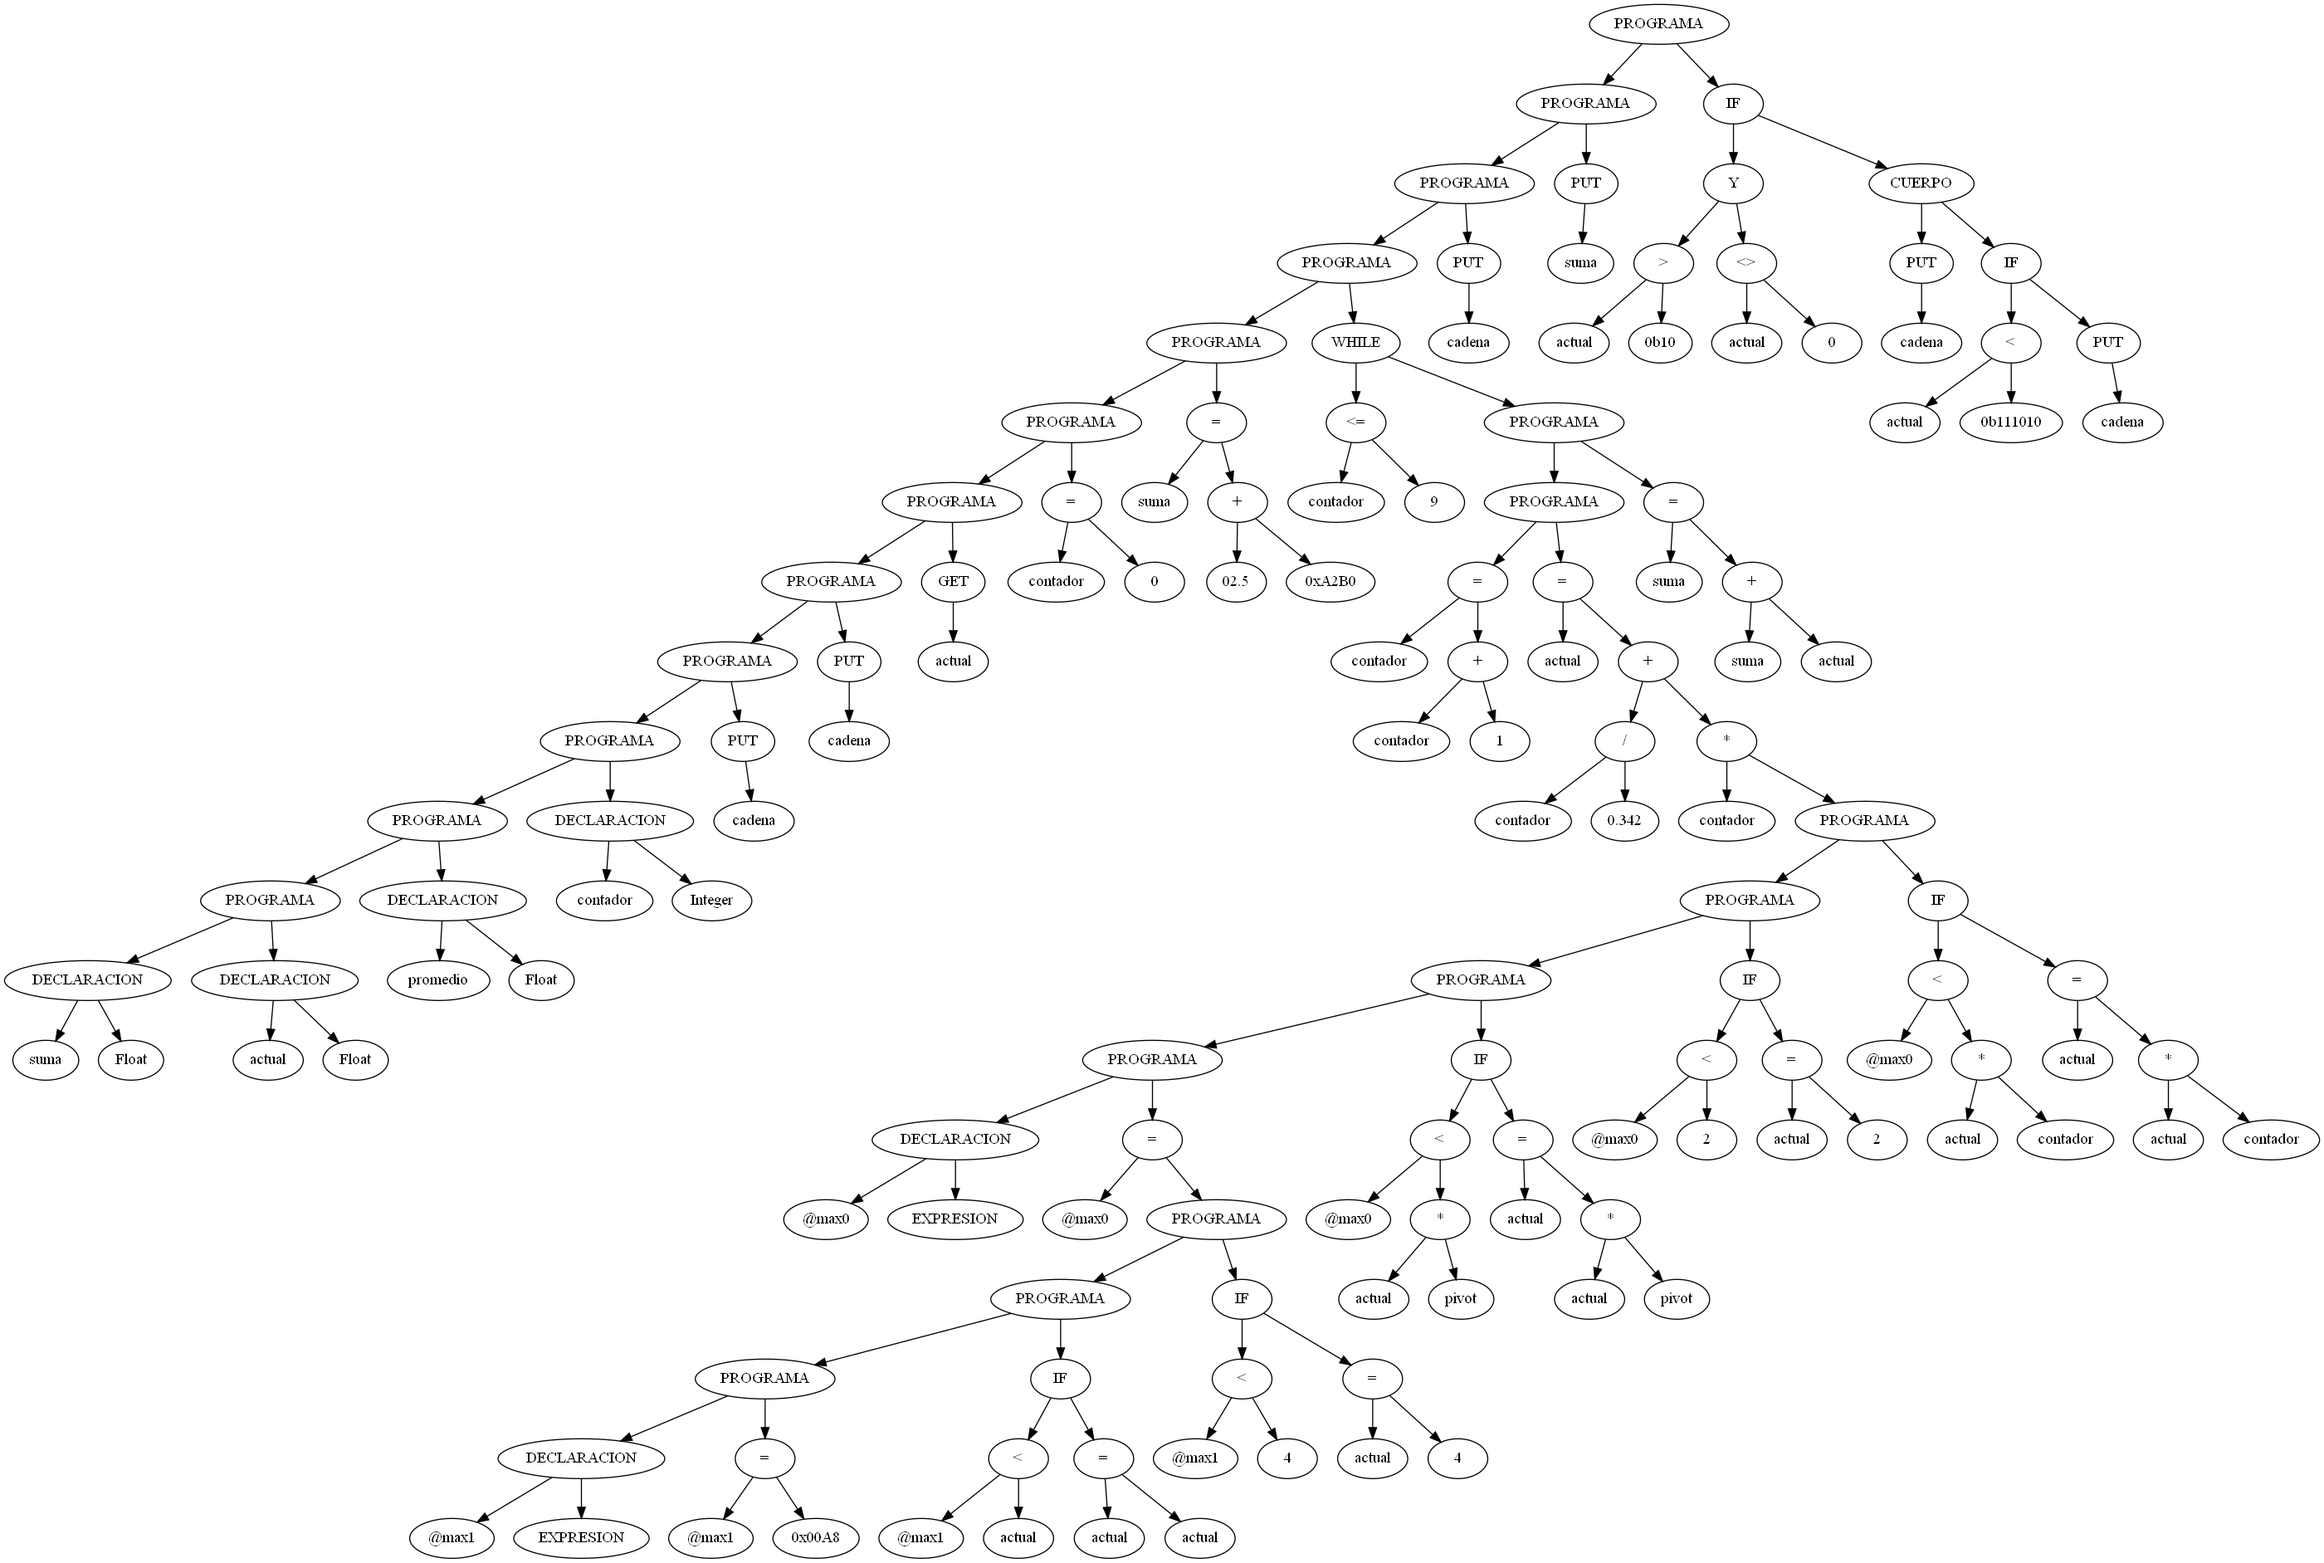
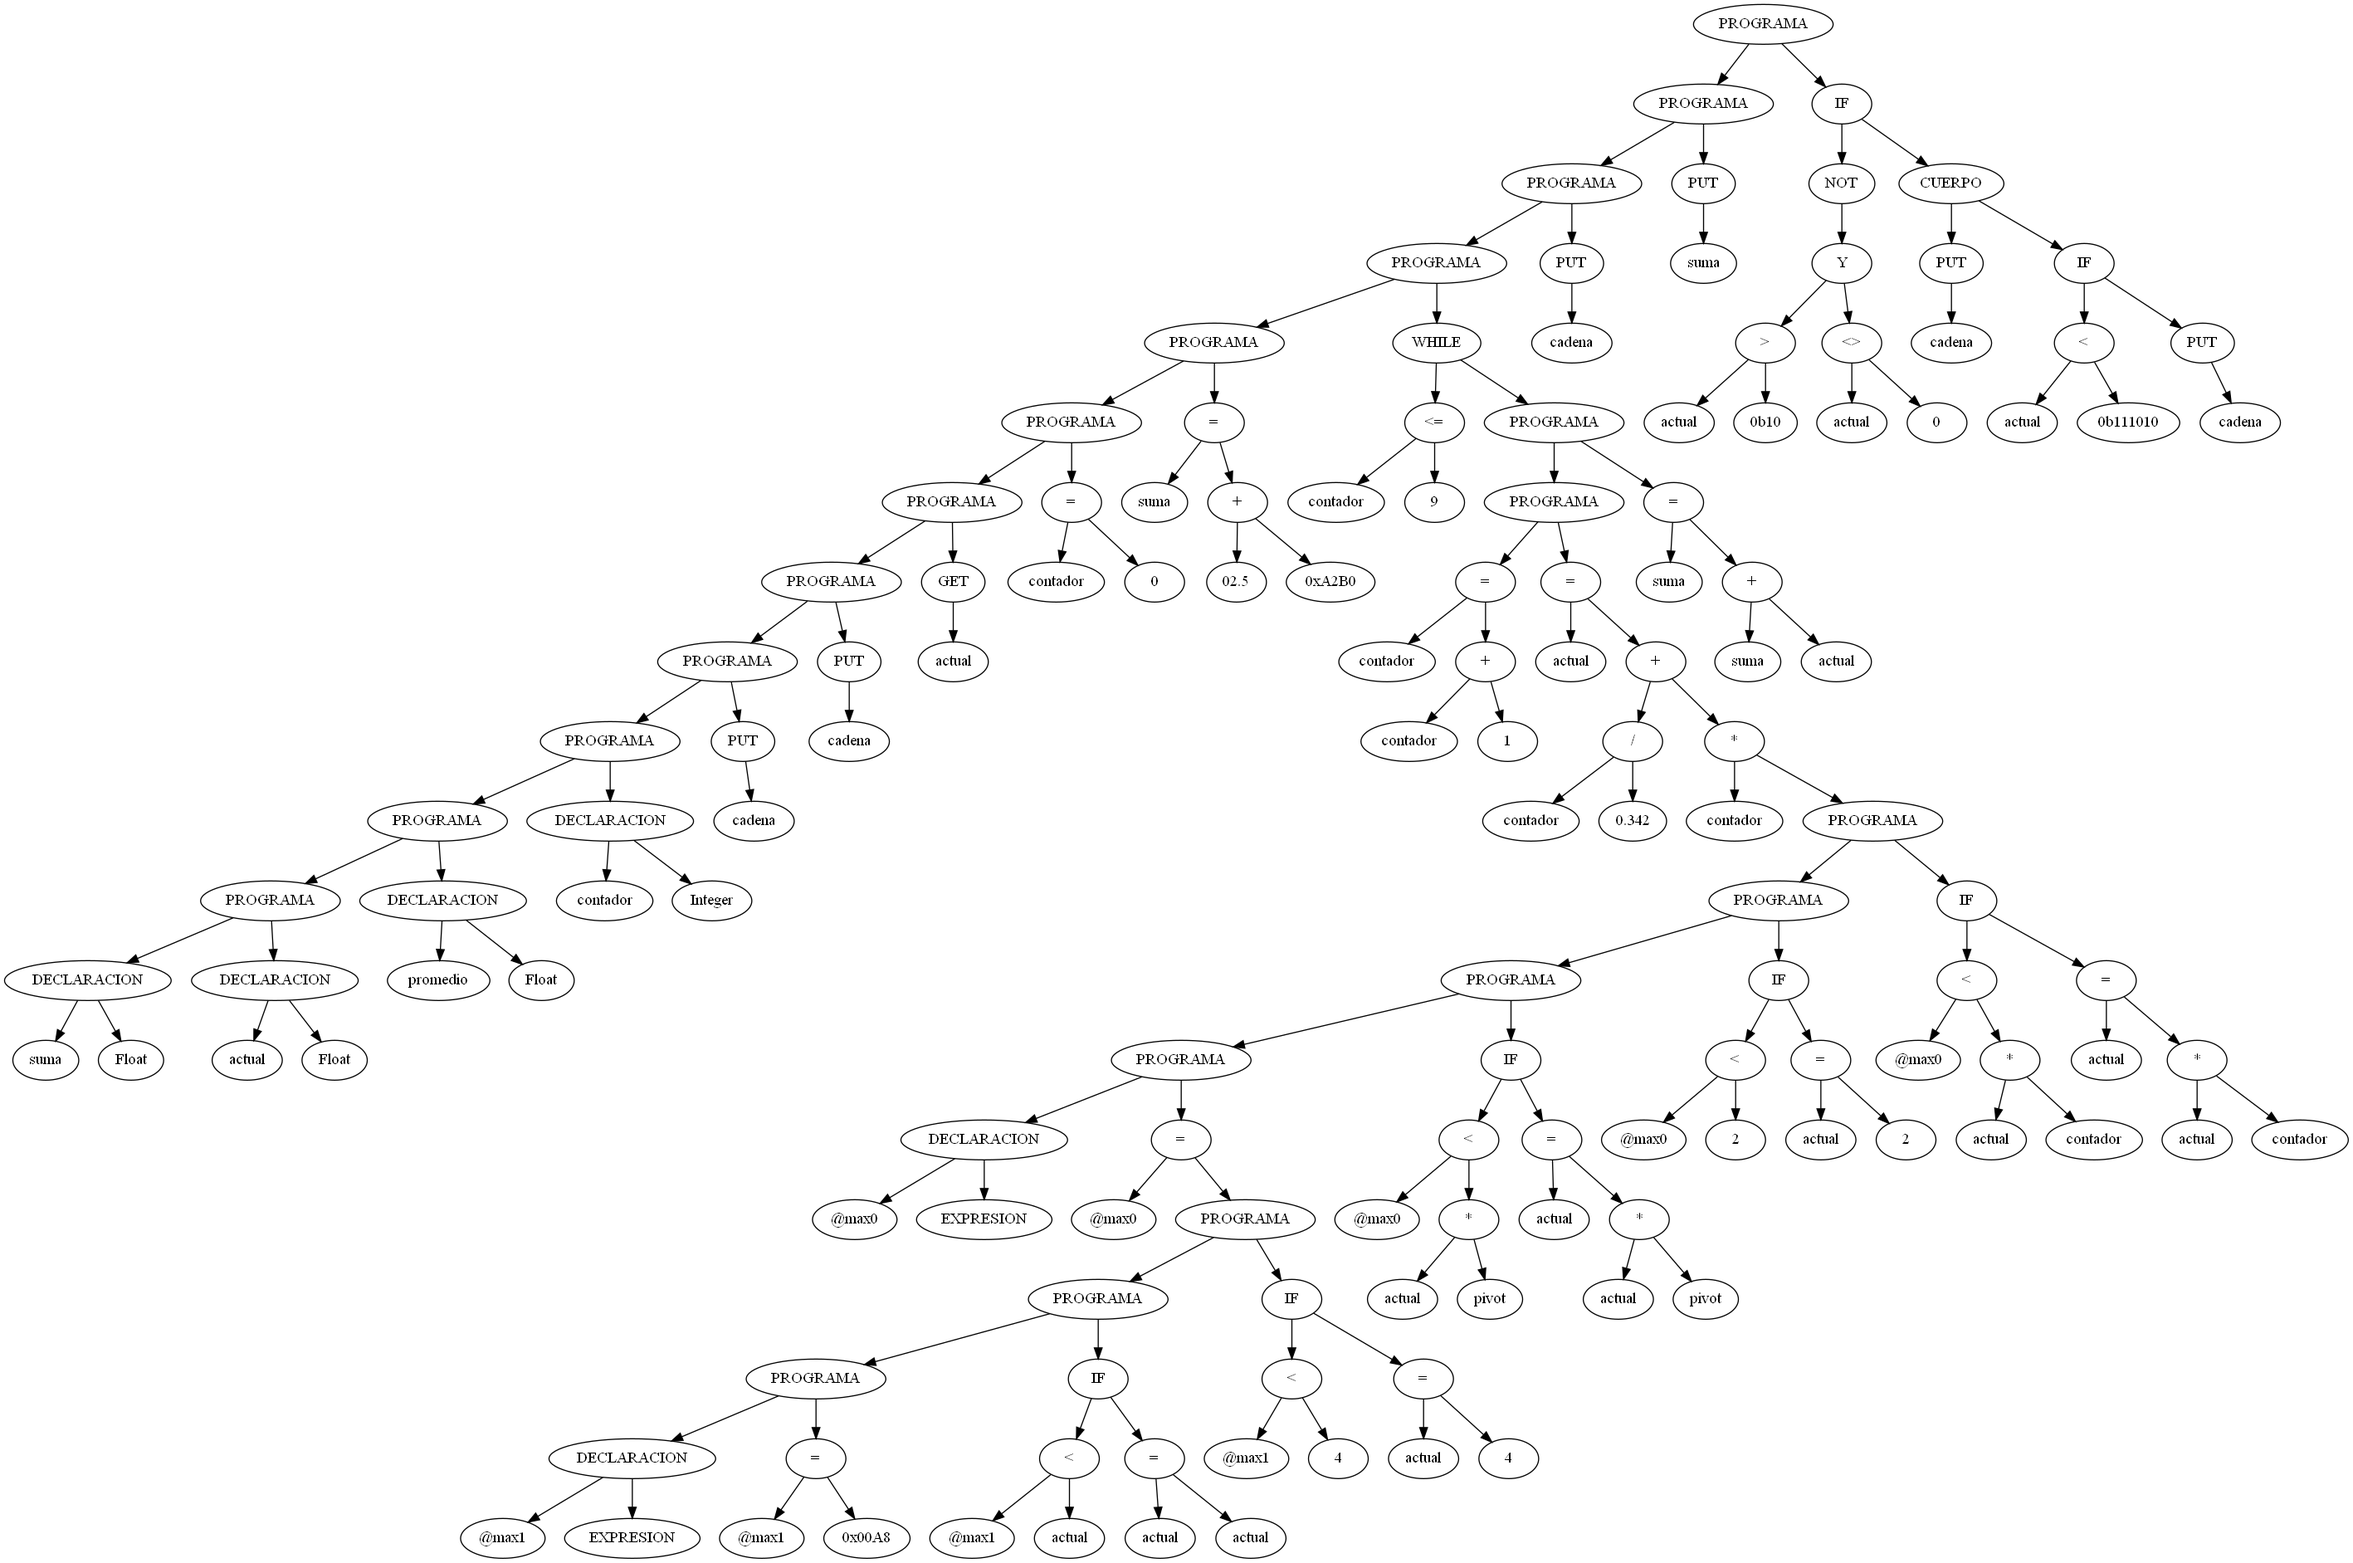
Añadido NOT

Changed region(s): [[0.0932, 0.0, 0.9632, 1.0], [0.4661, 0.6468, 0.5282, 0.7084], [0.0311, 0.616, 0.0621, 0.6776]]

diff --git a/Segunda entrega/expression.c b/Segunda entrega/expression.c
@@ -25,7 +25,7 @@ static SExpression *allocateExpression()
 
 SExpression *crearHoja(char *value)
 {
-  printf("\nHojaCreada: %s:\n", value);
+  printf("(hoja creada: %s)", value);
   SExpression *b = allocateExpression();
   if (b == NULL)
     return NULL;

diff --git a/Segunda entrega/expression.h b/Segunda entrega/expression.h
@@ -16,6 +16,7 @@ typedef enum tagEOperationType
   eIGUAL,
   eY,
   eO,
+  eNOT,
   eDISTINTO,
   eMAYORIGUAL,
   eMENORIGUAL,
